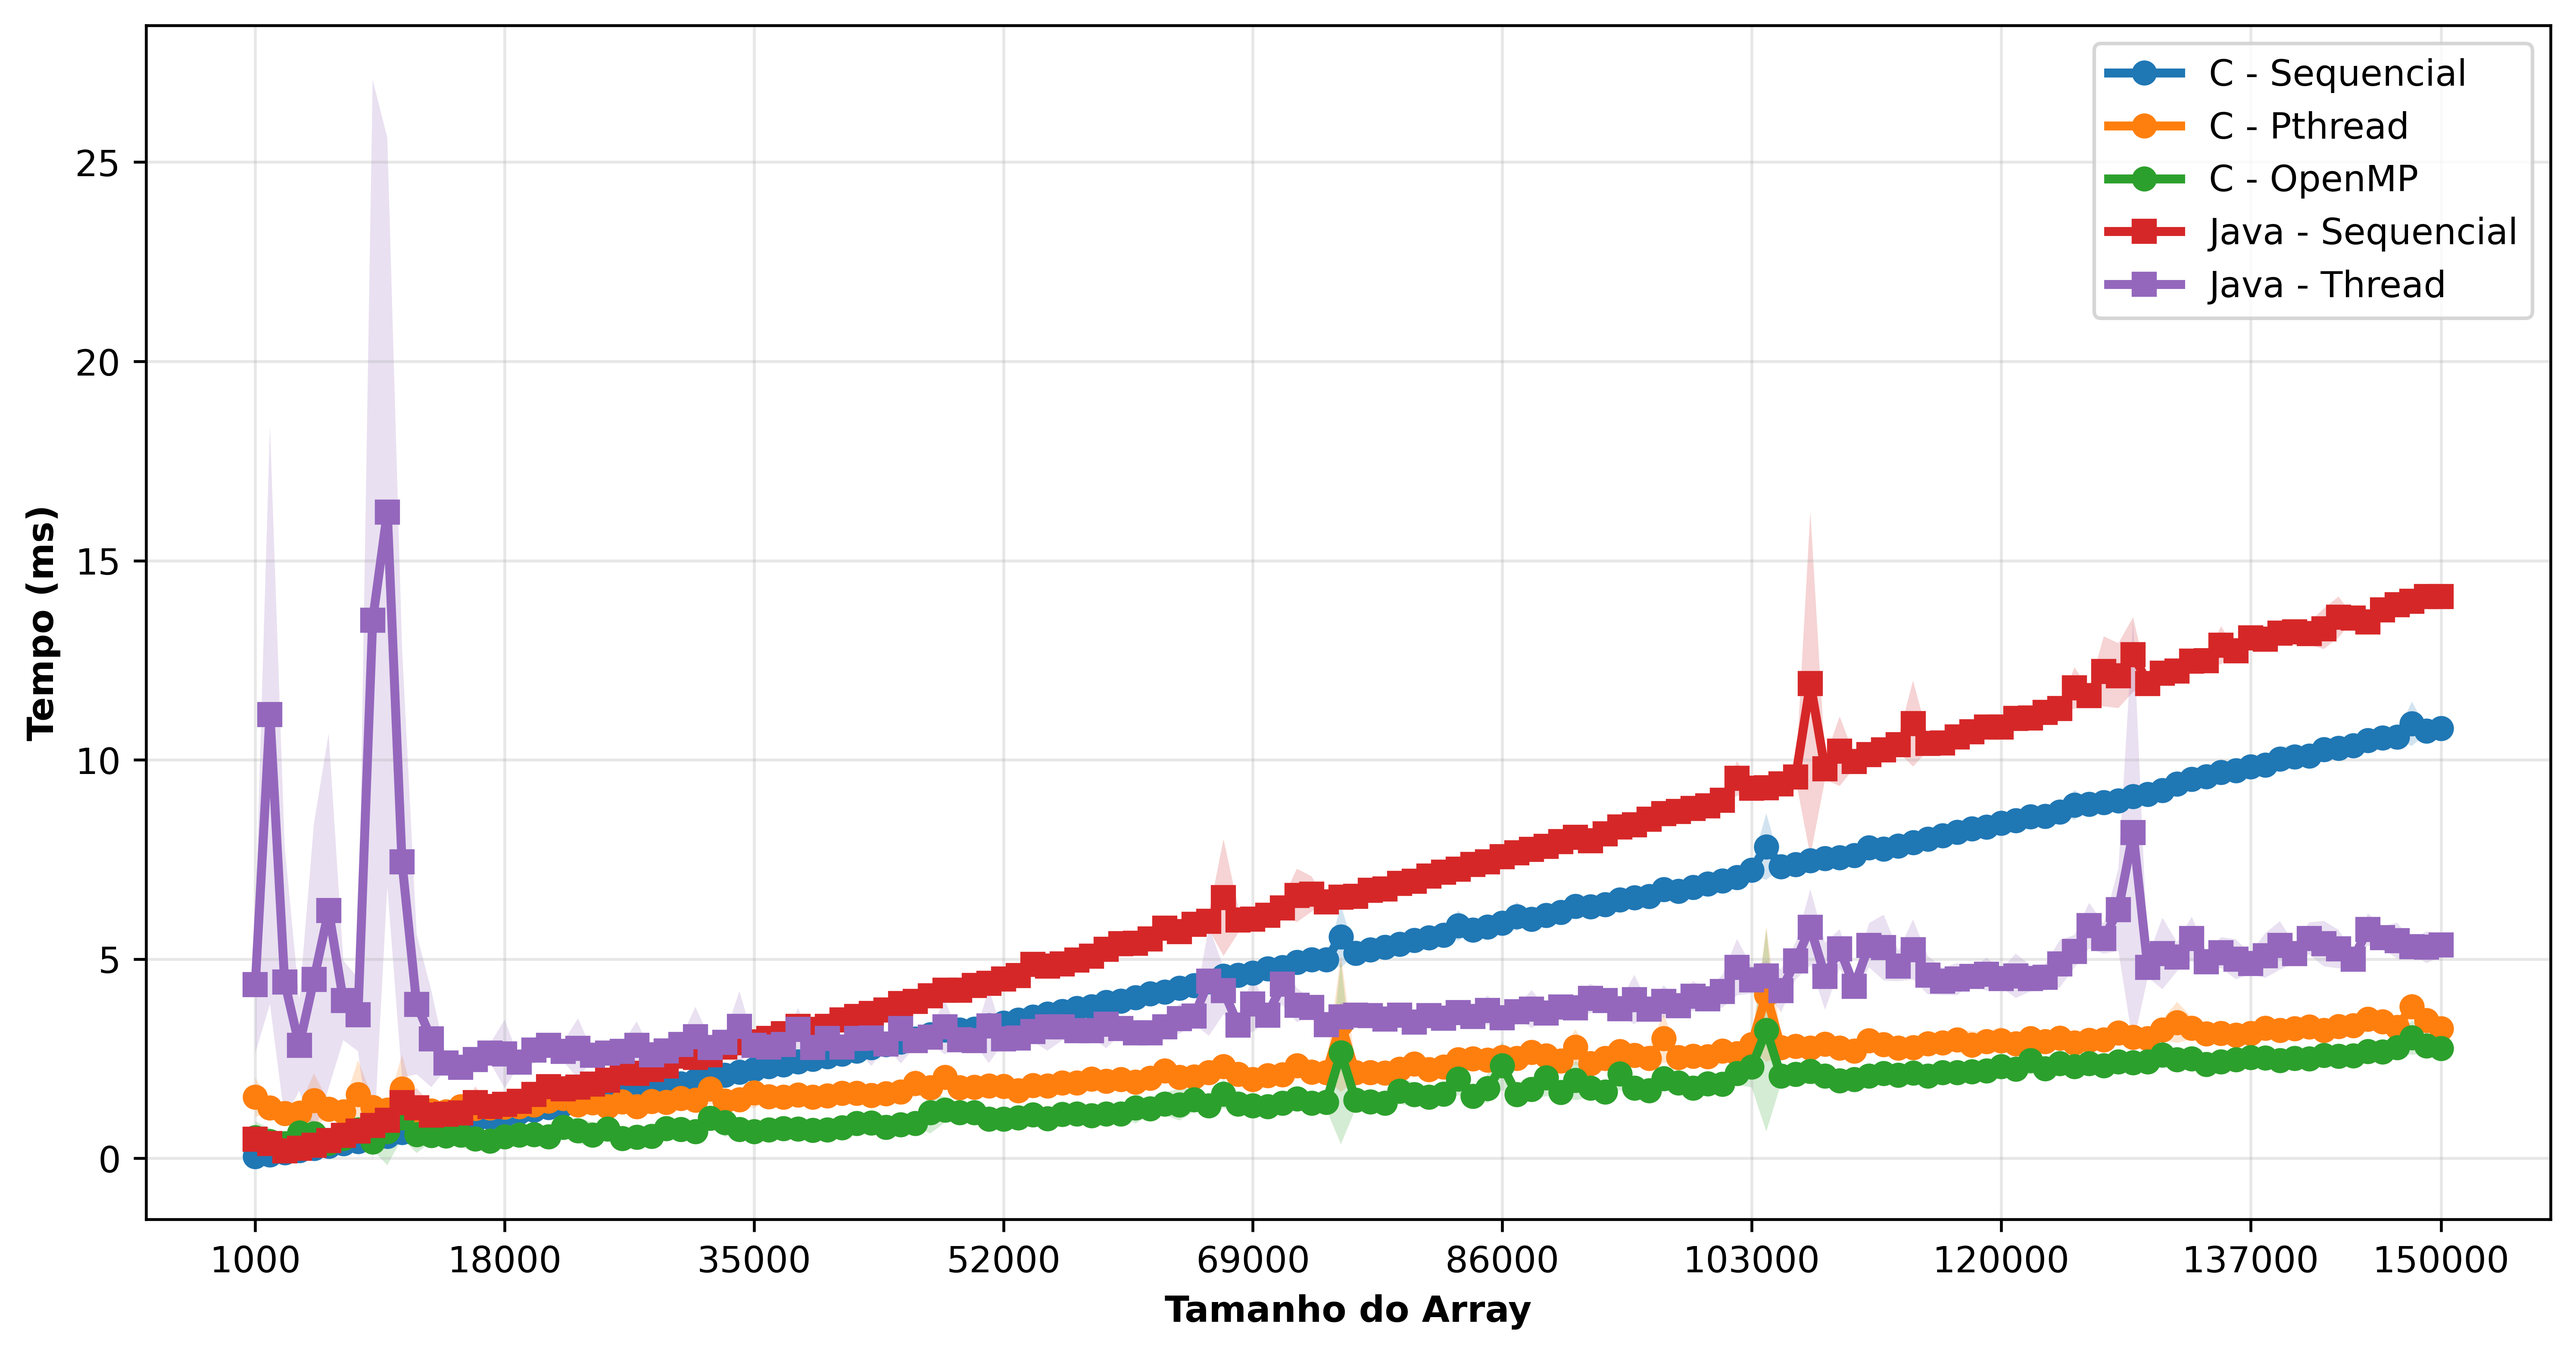
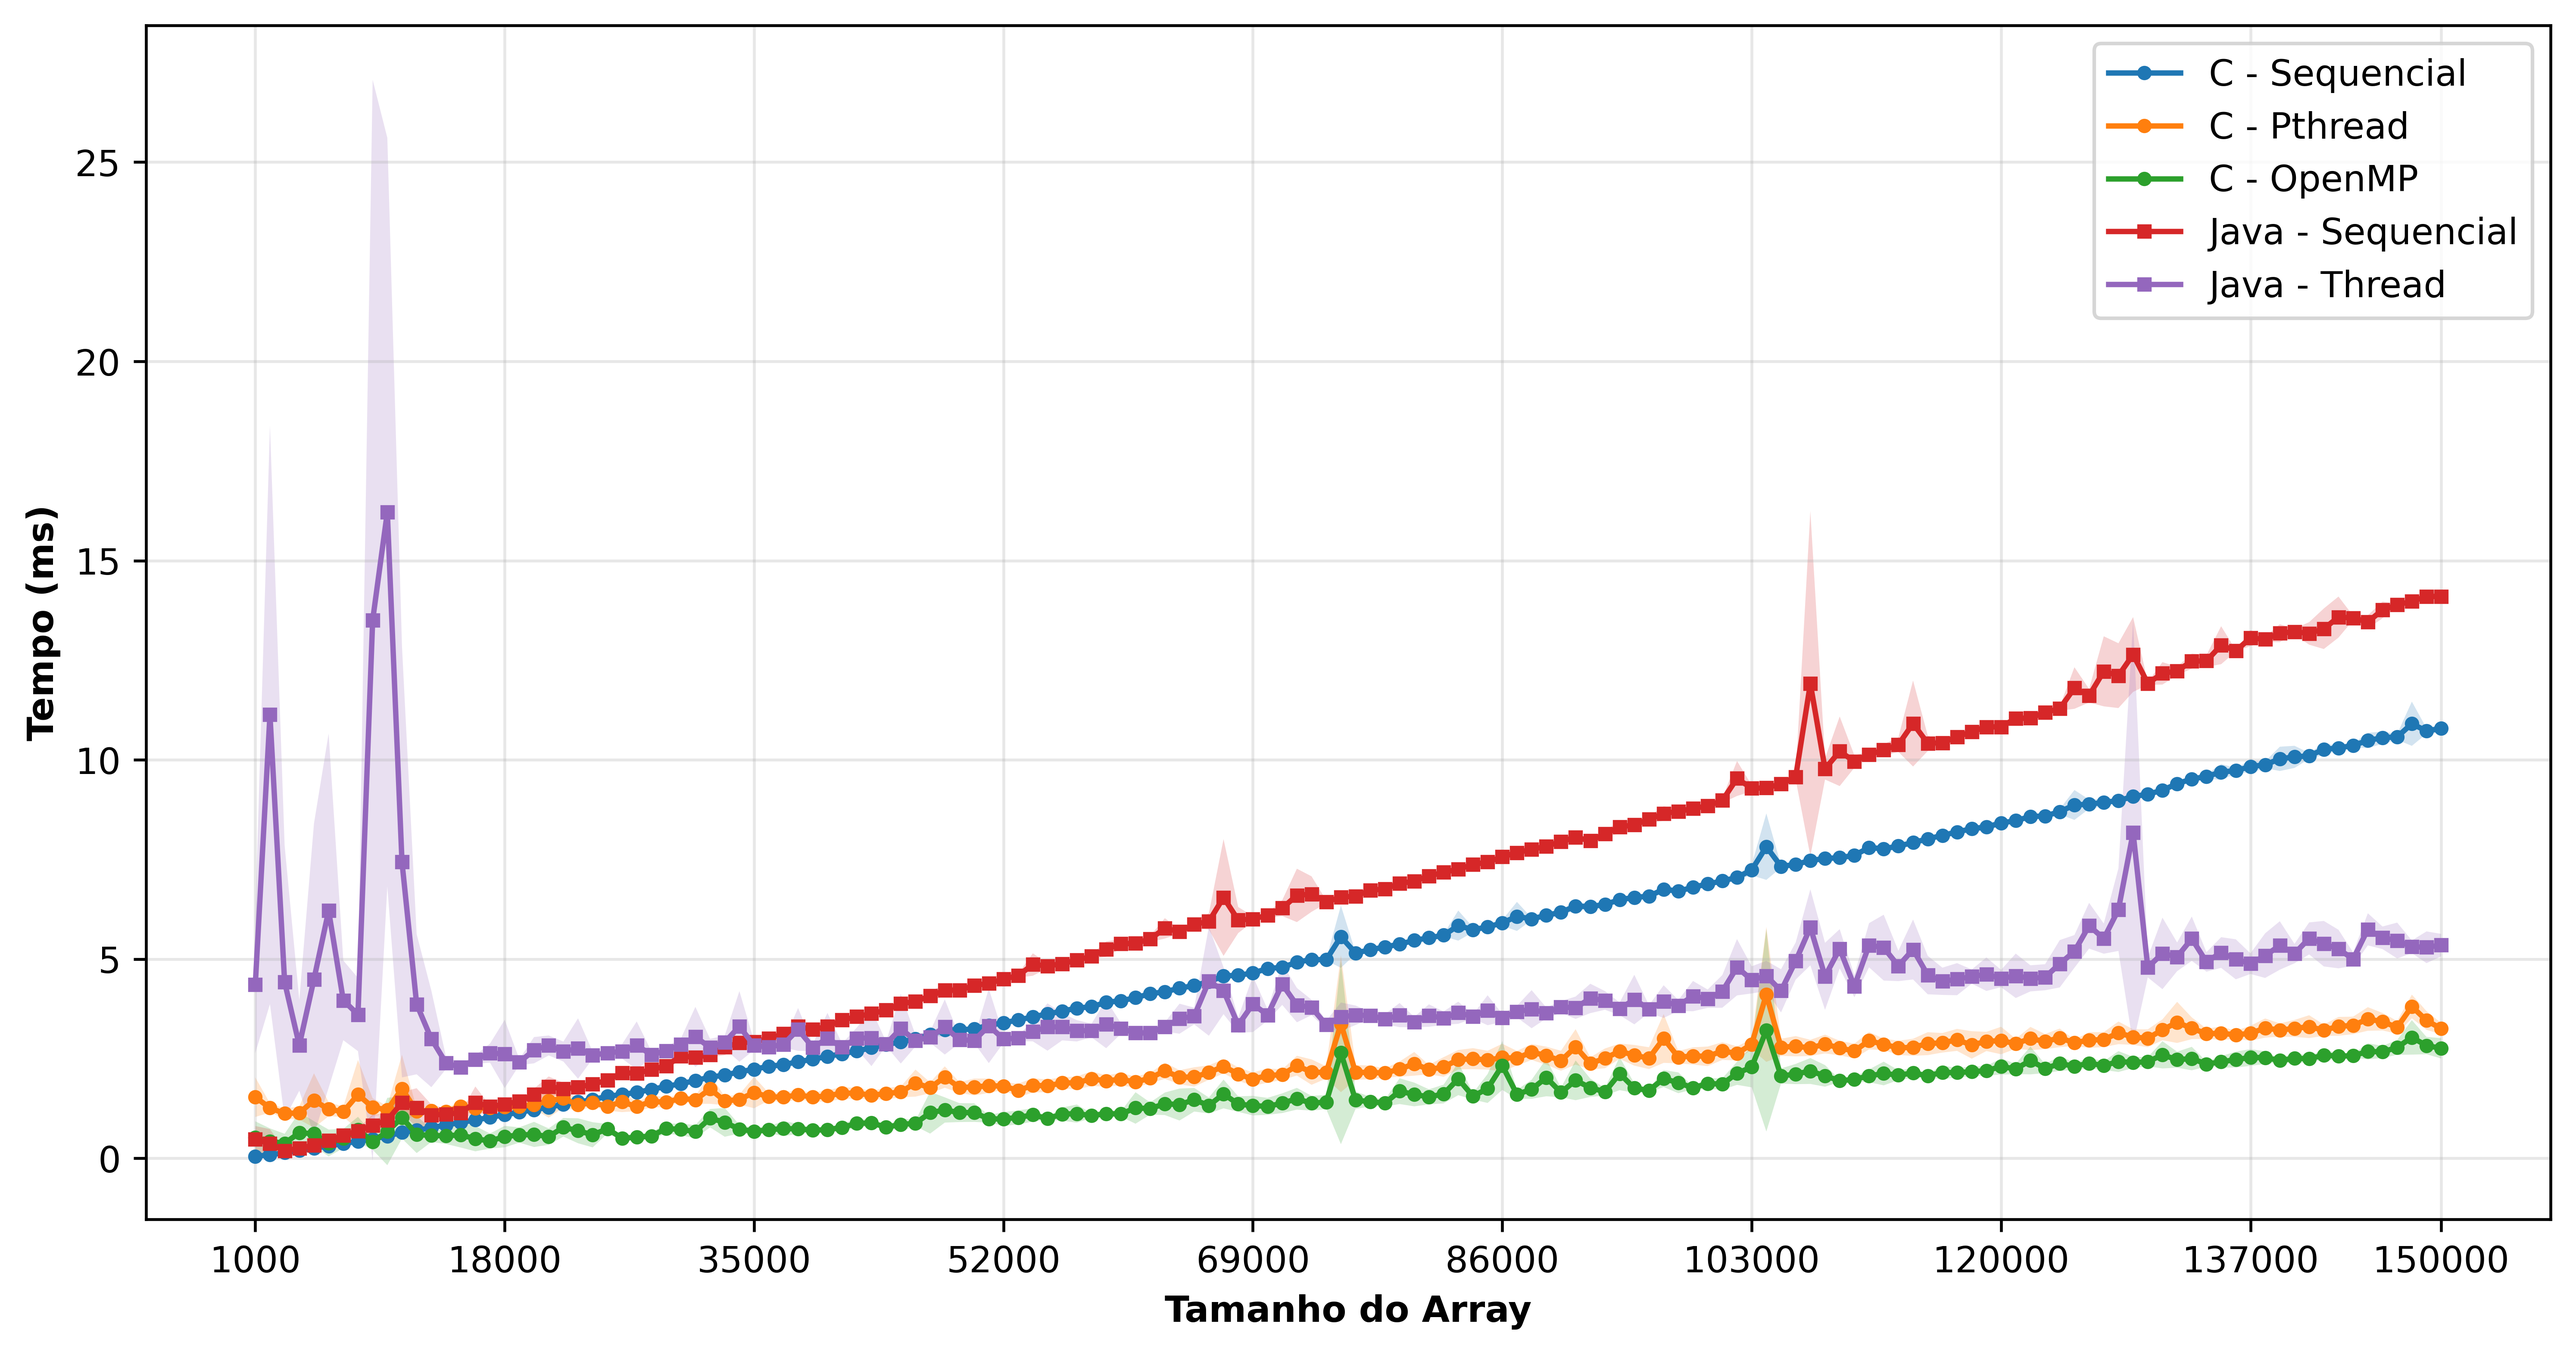
fix: arrumando o tamanho do marcador

diff --git a/Trabalho 1/graficos/mergesort.py b/Trabalho 1/graficos/mergesort.py
@@ -48,20 +48,20 @@ speedup_std_j = df_java['SpeedupStd']
 plt.figure(figsize=(12, 6))
 
 # --- C ---
-plt.plot(array_size_c, seq_avg_c, label='C - Sequencial', linewidth=2.5, marker='o')
+plt.plot(array_size_c, seq_avg_c, label='C - Sequencial', linewidth=1.5, marker='o', markersize=3)
 plt.fill_between(array_size_c, seq_avg_c - seq_std_c, seq_avg_c + seq_std_c, alpha=0.2)
 
-plt.plot(array_size_c, pt_avg, label='C - Pthread', linewidth=2.5, marker='o')
+plt.plot(array_size_c, pt_avg, label='C - Pthread', linewidth=1.5, marker='o', markersize=3)
 plt.fill_between(array_size_c, pt_avg - pt_std, pt_avg + pt_std, alpha=0.2)
 
-plt.plot(array_size_c, omp_avg, label='C - OpenMP', linewidth=2.5, marker='o')
+plt.plot(array_size_c, omp_avg, label='C - OpenMP', linewidth=1.5, marker='o', markersize=3)
 plt.fill_between(array_size_c, omp_avg - omp_std, omp_avg + omp_std, alpha=0.2)
 
 # --- JAVA ---
-plt.plot(array_size_j, seq_avg_j, label='Java - Sequencial', linewidth=2.5, marker='s')
+plt.plot(array_size_j, seq_avg_j, label='Java - Sequencial', linewidth=1.5, marker='s', markersize=3)
 plt.fill_between(array_size_j, seq_avg_j - seq_std_j, seq_avg_j + seq_std_j, alpha=0.2)
 
-plt.plot(array_size_j, par_avg_j, label='Java - Thread', linewidth=2.5, marker='s')
+plt.plot(array_size_j, par_avg_j, label='Java - Thread', linewidth=1.5, marker='s', markersize=3)
 plt.fill_between(array_size_j, par_avg_j - par_std_j, par_avg_j + par_std_j, alpha=0.2)
 
 plt.xlabel('Tamanho do Array', fontsize=10, fontweight='bold')
